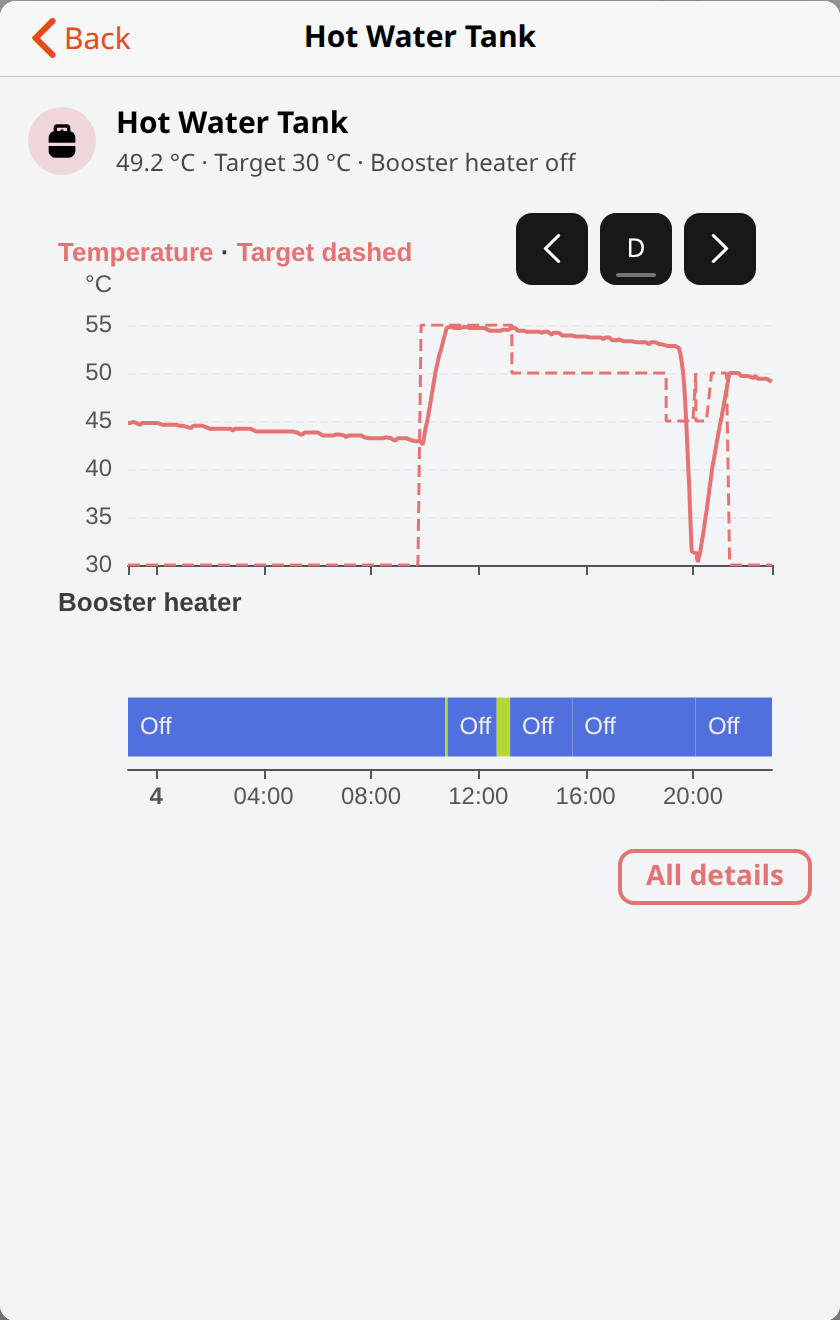
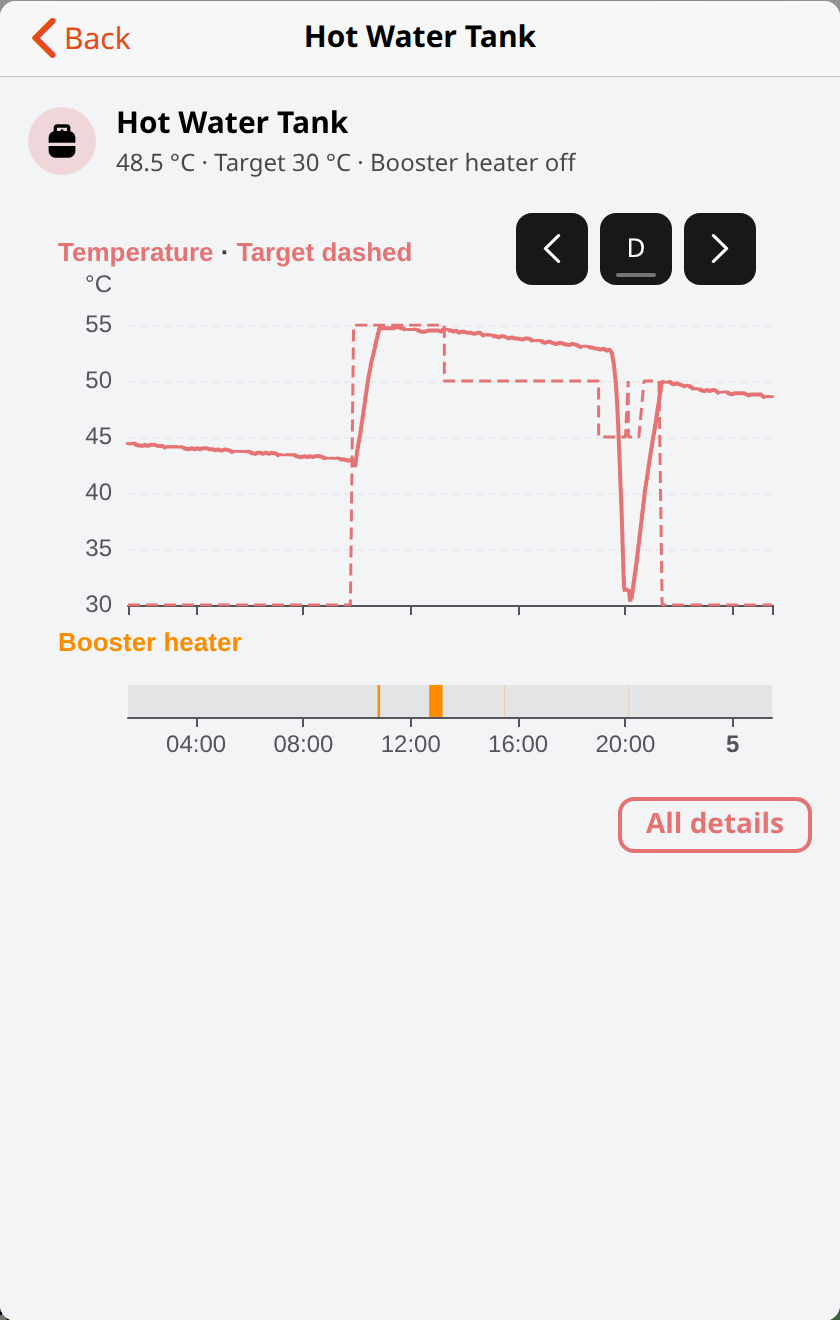
widgets: slim state bands, even tile insets
- state bands: a slim 16 px track, the active periods as bars in their colours, the
  rest state not drawn, no text in the bars; the title names the active state in its
  colour; a band alone shows its state and duration in its tooltip
- stacked_chart: fixed heights for bands, 40 px between bands, no axis line under them
- energy flow and heat pump card: their tile rows 16 px in from the card's edge, as the
  other cards' tiles
- i18n/en.py: translates each coloured name of a chart title on its own
- screenshots retaken (overview, energy flow, heat pump, tank and valve popups)

diff --git a/scripts/openhab-ui/dashboard.py b/scripts/openhab-ui/dashboard.py
@@ -1200,7 +1200,8 @@ def energy_flow():
                # it centres itself in the height the row leaves, the cards below stay at the card's bottom
                **{"padding": f"={NARROW} ? '4px' : '12px'", "flex": "1 1 auto", "display": "flex",
                   "flex-direction": "column", "justify-content": "center"})
-    strip = div([house_tiles()], **{"padding": "8px 12px 14px"})
+    # its tiles as far in from the card's edge as the other cards' tiles (16 px, user 2026-10-05)
+    strip = div([house_tiles()], **{"padding": "8px 16px 14px"})
     return [star, strip]
 
 
@@ -2275,7 +2276,7 @@ def heatpump_content():
              *[hp_popup_link(hp_box(cx - HP_ORBIT, cy - HP_ORBIT, 2 * HP_ORBIT, 2 * HP_ORBIT, "50%"), uid)
                for (cx, cy), uid in HP_NODE_POPUPS]]
     drawing = div([hp_svg, *links], **{"position": "relative"})
-    return [div([hp_stats()], **{"padding": f"={NARROW} ? '8px 4px 0' : '12px 12px 0'"}),
+    return [div([hp_stats()], **{"padding": f"={NARROW} ? '8px 4px 0' : '12px 16px 0'"}),  # as the other cards' tiles
             div([drawing],
                 # at its own size outside a phone, so its circles never shrink there (user, 2026-10-05: below 1500 px
                 # the card is narrower than the drawing); centred, reaching into the card's padding, whose edge the
@@ -2891,9 +2892,10 @@ QUICK_GRID = 120  # a grid's height in a quick popup's stacked chart
 def quick_stack(*panels, weights=None):
     """A quick popup's values over the day: stacked_chart() with grids of QUICK_GRID (a panel's own weight scales
     it), so the popup's charts share one tooltip and one pair of period arrows."""
-    total = sum(pnl[3] if len(pnl) > 3 else 1 for pnl in panels)
-    return stacked_chart(list(panels), round(STACK_TOP + STACK_BOTTOM + (len(panels) - 1) * STACK_GAP +
-                                              total * QUICK_GRID))
+    weights = [pnl[3] if len(pnl) > 3 else 1 for pnl in panels]
+    # a fixed height ("16px", a state band) counts as it is
+    total = sum(float(w[:-2]) if isinstance(w, str) else w * QUICK_GRID for w in weights)
+    return stacked_chart(list(panels), round(STACK_TOP + STACK_BOTTOM + (len(panels) - 1) * STACK_GAP + total))
 
 
 def hp_control_quick():
@@ -2945,56 +2947,70 @@ def hp_circuit_panels():
             ("Wärme", [area("Wärme", HPX["water_heat"], HP_ORANGE)], value_axis("W"))]
 
 
-def band_panel(title, item, states, extra=(), in_tooltip=False):
-    """An item's states as a horizontal band, one bar per period in its state's colour, named in it, as a panel of
-    stacked_chart() (a thin grid); states: (state, label, colour) for each the item takes, the colours opaque, as
-    ECharts picks the name's colour by its bar's (white on a translucent one, unreadable in the light theme). It stays
-    out of the chart's axis tooltip: MainUI's smart formatter would read a bar's start as its value and a part of its id
-    as its unit ("NaN" and a long number); its bars name their states themselves."""
-    names = " : ".join(f"s === '{v}' ? '{t}'" for v, t, _ in states)
-    return (title, [comp("oh-state-series", {"name": title, "item": item, "yValue": 0, "yHeight": 0.7,
-                                             "mapState": f"=(s) => {names} : s",
-                                             "stateColor": {t: c for _, t, c in states},
-                                             **({} if in_tooltip else {"tooltip": {"show": False}})}), *extra],
-            comp("oh-category-axis", {"categoryType": "values", "data": [title], "show": False}), 0.35)
+BAND_H = "16px"  # every state band as high, its bars filling it
+BAND_GAP = 40  # above a band, which has no axis name: room for its title
+# a band's track, a grey that reads on both themes' backgrounds (MainUI evaluates no expression in a grid's config)
+BAND_TRACK = "rgba(127, 127, 127, 0.13)"
 
 
-def state_band(title, item, states):
-    """A day chart of nothing but an item's states as a band (band_panel()); its tooltip gives a bar's duration."""
-    band = stacked_chart([band_panel(title, item, states)], 150)
-    band["slots"]["tooltip"] = [comp("oh-chart-tooltip", {"show": True, "confine": True})]
-    band["slots"]["series"][0]["config"].pop("tooltip")  # alone, a bar's own tooltip with its duration
+def band_panel(title, item, active, rest, extra=(), in_tooltip=False, display=None):
+    """An item's states as a slim horizontal band, a panel of stacked_chart() (user, 2026-10-05): the periods of the
+    active states, (state, label, colour), as bars in their colours on a faint track (the grid's background, see
+    stacked_chart()); every other state, named rest, transparent, so a quiet day is an empty track instead of a grey
+    bar saying Aus. No text in the bars: the title names the active state in its colour (display, (name, colour)
+    pairs; by default the title in the first active state's colour). It stays out of the chart's axis tooltip: MainUI's
+    smart formatter would read a bar's start as its value and a part of its id as its unit ("NaN" and a long number)."""
+    # MainUI draws every bar's state as text in it and leaves out UNDEF and NULL only: the rest becomes UNDEF, so
+    # nothing is drawn there, an active state a run of zero-width spaces, a key of its own for its colour that writes
+    # nothing; a bar's tooltip names it in words
+    keys = {v: "\u200b" * (k + 1) for k, (v, _, _) in enumerate(active)}
+    names = " : ".join(f"s === '{v}' ? '{keys[v]}'" for v, _, _ in active)
+    words = " : ".join(f"p.value[3] === '{keys[v]}' ? '{t}'" for v, t, _ in active)
+    tip = (f"=(p) => p.seriesName + '<br/>' + p.marker + ({words} : '{rest}') + ' · ' + "
+           f"{hm('((p.value[2] - p.value[1]) / 60000)')}")
+    return (display or [(title, active[0][2])],
+            [comp("oh-state-series", {"name": title, "item": item, "yValue": 0, "yHeight": 1,
+                                      "mapState": f"=(s) => {names} : 'UNDEF'",
+                                      "stateColor": {keys[v]: c for v, _, c in active},
+                                      "tooltip": {"formatter": tip} if in_tooltip else {"show": False}}), *extra],
+            comp("oh-category-axis", {"categoryType": "values", "data": [title], "show": False}), BAND_H)
+
+
+def state_band(title, item, active, rest, display=None):
+    """A day chart of nothing but an item's states as a band (band_panel()); its tooltip gives a bar's state and
+    duration, the rest's too."""
+    band = stacked_chart([band_panel(title, item, active, rest, in_tooltip=True, display=display)], 120)
+    band["slots"]["tooltip"] = [comp("oh-chart-tooltip", {"show": True, "confine": True})]  # alone, a bar's own
     return band
 
 
 def hp_tank_panels():
-    """The DHW tank: its temperature with its setpoint, and when its booster heater (BSH) ran, as a band, off in a
-    grey just off the chart's background in either theme."""
+    """The DHW tank: its temperature with its setpoint, and when its booster heater (BSH) ran, as a band."""
     return [([("Temperatur", DHW_C), ("Soll gestrichelt", DHW_C)],
              [line("Temperatur", HPX["tank"], DHW_C), line("Soll", HPX["tank_set"], DHW_C, dashed=True)],
              span_axis("°C")),
             # the band's own state series stays out of the tooltip (band_panel()); its state comes in by the heater's
             # power, 2 kW while it heats
-            band_panel("Zusatzheizung", HPX["bsh"], [("ON", "An", HP_ORANGE),
-                                                     ("OFF", "Aus", "=themeOptions.dark === 'dark' ? '#3c3c3c' : '#e0e0e0'")],
+            band_panel("Zusatzheizung", HPX["bsh"], [("ON", "An", HP_ORANGE)], "Aus",
                        extra=[on_off_series("Zusatzheizung", HPX["bsh_power"], HP_ORANGE)])]
 
 
 def hp_valve_band():
     """The three-way valve: when it served the heating circuits and when the tank."""
-    return state_band("Stellung", HPX["valve"], [("Space", "Heizung", SPACE_C), ("DHW", "Warmwasser", DHW_C)])
+    return state_band("Stellung", HPX["valve"], [("DHW", "Warmwasser", DHW_C)], "Heizung",
+                      display=[("Auf Warmwasser", DHW_C)])
 
 
 def hp_operation_panels():
     """How the heat pump heats over the day: the valve's position and the defrosts as bands, the compressor, the
     water's flow, leaving and inlet water, the water's heat and the two electric heaters."""
-    off = "=themeOptions.dark === 'dark' ? '#3c3c3c' : '#e0e0e0'"  # as the tank's booster heater band
     # the bands' states reach the tooltip by numeric mirrors (rule heatpump_state_numbers), as ECharts leaves a band
-    # out of a shared tooltip
-    return [band_panel("Ventil", HPX["valve"], [("Space", "Heizung", SPACE_C), ("DHW", "Warmwasser", DHW_C)],
-                       extra=[state_text_series("Ventil", "heatpump_valve_value", SPACE_C,
-                                                [(0, "Heizung"), (1, "Warmwasser")])]),
-            band_panel("Abtauen", HPX["defrost"], [("ON", "An", "#4fc3f7"), ("OFF", "Aus", off)],
+    # out of a shared tooltip; the valve's position for the heating circuits, its rest, stays an empty track
+    return [band_panel("Ventil", HPX["valve"], [("DHW", "Warmwasser", DHW_C)], "Heizung",
+                       extra=[state_text_series("Ventil", "heatpump_valve_value", DHW_C,
+                                                [(0, "Heizung"), (1, "Warmwasser")])],
+                       display=[("Ventil auf Warmwasser", DHW_C)]),
+            band_panel("Abtauen", HPX["defrost"], [("ON", "An", "#4fc3f7")], "Aus",
                        extra=[state_text_series("Abtauen", "heatpump_defrost_value", "#4fc3f7", [(0, "Aus"), (1, "An")])]),
             ("Verdichter", [line("Verdichter", HPX["hz"], "#78909c")], value_axis("Hz", min=0)),
             ("Durchfluss", [area("Durchfluss", HPX["flow"], "#64b5f6")], value_axis("l/min", min=0)),
@@ -4297,13 +4313,24 @@ def stacked_chart(panels, height, visual_map=None, **cfg):
     whose reading lies nearest to the time pointed at, so two values persisted at different moments would hide each
     other."""
     weights = [pnl[3] if len(pnl) > 3 else 1 for pnl in panels]
-    unit = (height - STACK_TOP - STACK_BOTTOM - (len(panels) - 1) * STACK_GAP) / sum(weights)
+    # a weight may be a fixed height ("16px", a state band); the others share what is left
+    fixed = sum(float(w[:-2]) for w in weights if isinstance(w, str))
+    is_band = [any(one["component"] == "oh-state-series" for one in pn[1]) for pn in panels]
+    # above a band only its title, above a plot its title and its axis' name
+    gaps = sum(BAND_GAP if b else STACK_GAP for b in is_band[1:])
+    unit = ((height - STACK_TOP - STACK_BOTTOM - gaps - fixed)
+            / (sum(w for w in weights if not isinstance(w, str)) or 1))
     grids, xs, ys, series, titles, top, texts, bands = [], [], [], [], [], STACK_TOP, {}, False
+    gap_before = STACK_GAP
     for i, (pnl, w) in enumerate(zip(panels, weights)):
         title, ser, axis = pnl[:3]
-        h = unit * w
+        h = float(w[:-2]) if isinstance(w, str) else unit * w
+        band = any(one["component"] == "oh-state-series" for one in ser)
         grids.append(comp("oh-chart-grid", {"top": round(top), "height": round(h), "left": "50",
-                                             "right": "50" if any(isinstance(pn[2], list) for pn in panels) else "20"}))
+                                             "right": "50" if any(isinstance(pn[2], list) for pn in panels) else "20",
+                                             # a state band's track
+                                             **({"show": True, "backgroundColor": BAND_TRACK, "borderWidth": 0}
+                                                if band else {})}))
         y_of = []
         for k, ax in enumerate(axis if isinstance(axis, list) else [axis]):
             ax = copy.deepcopy(ax)
@@ -4316,6 +4343,9 @@ def stacked_chart(panels, height, visual_map=None, **cfg):
         for j, one in enumerate(ser):
             # the pointer stands where the mouse is, one line through every grid, without a label of its own
             xs.append(comp("oh-time-axis", {"gridIndex": i, "axisPointer": {"snap": False, "label": {"show": False}},
+                                            # a band without its axis line and ticks, its track is enough
+                                            **({"axisLine": {"show": False}, "axisTick": {"show": False}}
+                                               if band and i < len(panels) - 1 else {}),
                                             **({"show": False} if j else {} if i == len(panels) - 1
                                                else {"axisLabel": {"show": False}})}))
             one = copy.deepcopy(one)
@@ -4329,8 +4359,9 @@ def stacked_chart(panels, height, visual_map=None, **cfg):
                 bands = True
             one["config"].update(xAxisIndex=len(xs) - 1, yAxisIndex=y, gridIndex=i)
             series.append(one)
-        titles.append(stack_title(title, 15 if i == 0 else round(top - 52)))
-        top += h + STACK_GAP
+        titles.append(stack_title(title, 15 if i == 0 else round(top - gap_before + 8)))
+        gap_before = BAND_GAP if i + 1 < len(panels) and is_band[i + 1] else STACK_GAP
+        top += h + gap_before
     slots = {"visualMap": visual_map} if visual_map else {}
     return chart({"period": "D", "periodVisible": True, "height": f"{height}px",
                   "options": {"axisPointer": {"link": [{"xAxisIndex": "all"}]}}, **cfg},

diff --git a/scripts/openhab-ui/i18n/en_texts.py b/scripts/openhab-ui/i18n/en_texts.py
@@ -87,6 +87,7 @@ EN = {
     "{s0|Temperatur} · {s1|Soll gestrichelt}": "{s0|Temperature} · {s1|Target dashed}",
     "{s0|Vorlauf} · {s1|Rücklauf}": "{s0|Flow} · {s1|Return}",
     "{s0|Heizstab} · {s1|Zusatzheizung}": "{s0|Backup heater} · {s1|Booster heater}",
+    "Ventil auf Warmwasser": "Valve on hot water", "Auf Warmwasser": "On hot water",
     "Space=Heizung,DHW=Warmwasser": "Space=Heating,DHW=Hot water",
     "Heating=Heizen,Heating + DHW=Heizen + Warmwasser,DHW=Warmwasser,Stop=Stopp":
         "Heating=Heating,Heating + DHW=Heating + Hot water,DHW=Hot water,Stop=Stop",

diff --git a/scripts/openhab-ui/i18n/en.py b/scripts/openhab-ui/i18n/en.py
@@ -52,8 +52,15 @@ def split(text):
     return text[:i], text[i:j], text[j:]
 
 
+RICH = re.compile(r"\{(s\d+)\|([^{}]*)\}")  # a chart title's coloured names, {s0|Name} · {s1|Name}
+
+
 def tr_core(core):
-    return EN.get(core) or ITEM_LABELS.get(core) or core
+    if core in EN or core in ITEM_LABELS:
+        return EN.get(core) or ITEM_LABELS[core]
+    if RICH.search(core):  # each coloured name of a title on its own
+        return RICH.sub(lambda m: "{" + m.group(1) + "|" + tr_plain(m.group(2)) + "}", core)
+    return core
 
 
 def tr_plain(text):
